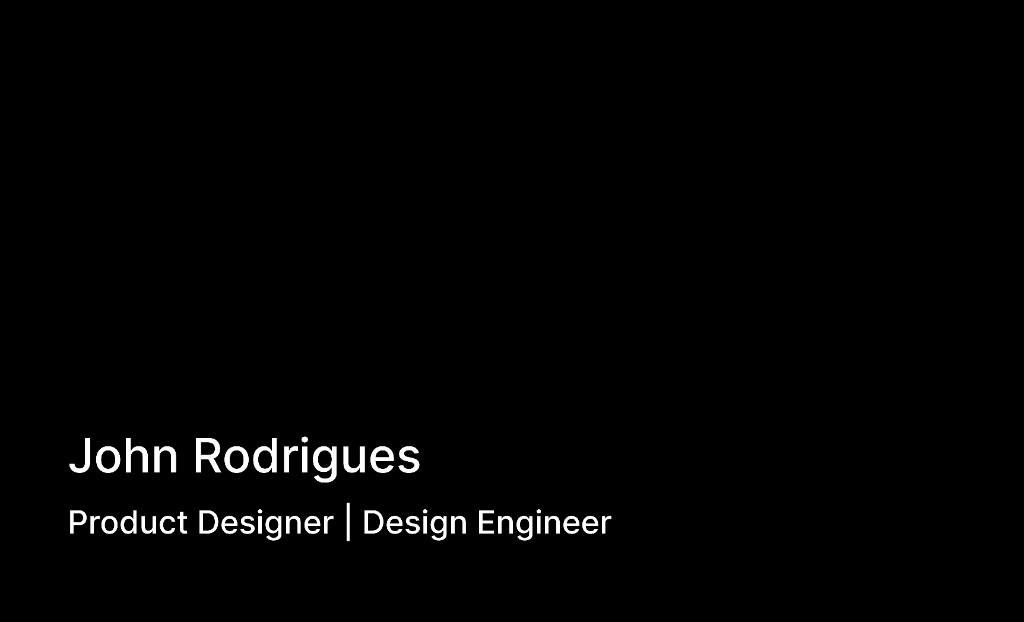
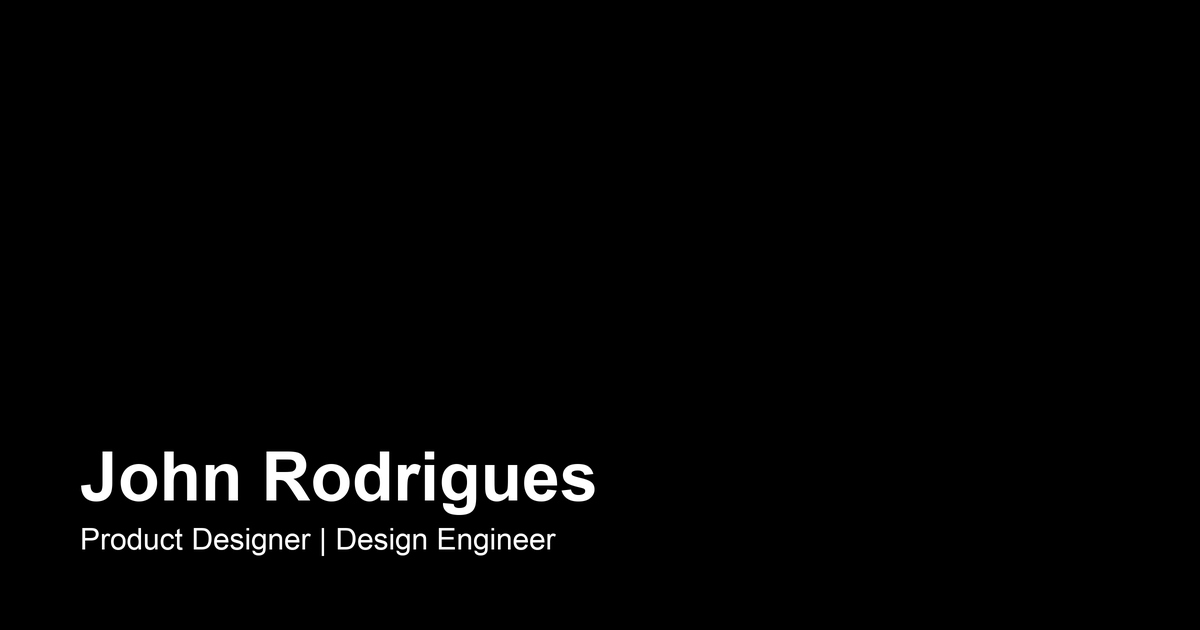
Personalize share preview title and ship a sharper OG image.
Link previews now say John Rodrigues | Portfolio, with a crisp 1200×630 share image.

Changed region(s): [[0.0625, 0.7026, 0.5938, 0.8859]]

diff --git a/index.html b/index.html
@@ -3,21 +3,24 @@
   <head>
     <meta charset="UTF-8" />
     <meta name="viewport" content="width=device-width, initial-scale=1.0" />
-    <title>Portfolio | Senior Product Designer</title>
-    <meta name="description" content="Senior Product Designer/Product Engineer based in San Francisco Bay Area. Specializing in 0-1, end-to-end mobile & Web projects." />
-    <meta name="author" content="Portfolio" />
+    <title>John Rodrigues | Portfolio</title>
+    <meta name="description" content="John Rodrigues — Design Engineer based in San Francisco. 0→1 AI-native products, design systems, and agentic experiences." />
+    <meta name="author" content="John Rodrigues" />
 
-    <meta property="og:title" content="Portfolio | Senior Product Designer" />
-    <meta property="og:description" content="Senior Product Designer/Product Engineer based in San Francisco Bay Area" />
+    <meta property="og:title" content="John Rodrigues | Portfolio" />
+    <meta property="og:description" content="Design Engineer building 0→1 AI-native products, design systems, and agentic experiences." />
     <meta property="og:type" content="website" />
     <meta property="og:url" content="https://john-rodrigues.com/" />
-    <meta property="og:image" content="https://john-rodrigues.com/og-image.jpg" />
-    <meta property="og:image:width" content="1024" />
-    <meta property="og:image:height" content="622" />
+    <meta property="og:image" content="https://john-rodrigues.com/og-image.png" />
+    <meta property="og:image:width" content="1200" />
+    <meta property="og:image:height" content="630" />
+    <meta property="og:image:type" content="image/png" />
 
     <meta name="twitter:card" content="summary_large_image" />
     <meta name="twitter:site" content="@john_rodrigues_" />
-    <meta name="twitter:image" content="https://john-rodrigues.com/og-image.jpg" />
+    <meta name="twitter:title" content="John Rodrigues | Portfolio" />
+    <meta name="twitter:description" content="Design Engineer building 0→1 AI-native products, design systems, and agentic experiences." />
+    <meta name="twitter:image" content="https://john-rodrigues.com/og-image.png" />
     
     <link rel="icon" type="image/jpeg" href="/profile-favicon.jpg" />
     <link rel="shortcut icon" type="image/jpeg" href="/profile-favicon.jpg" />
